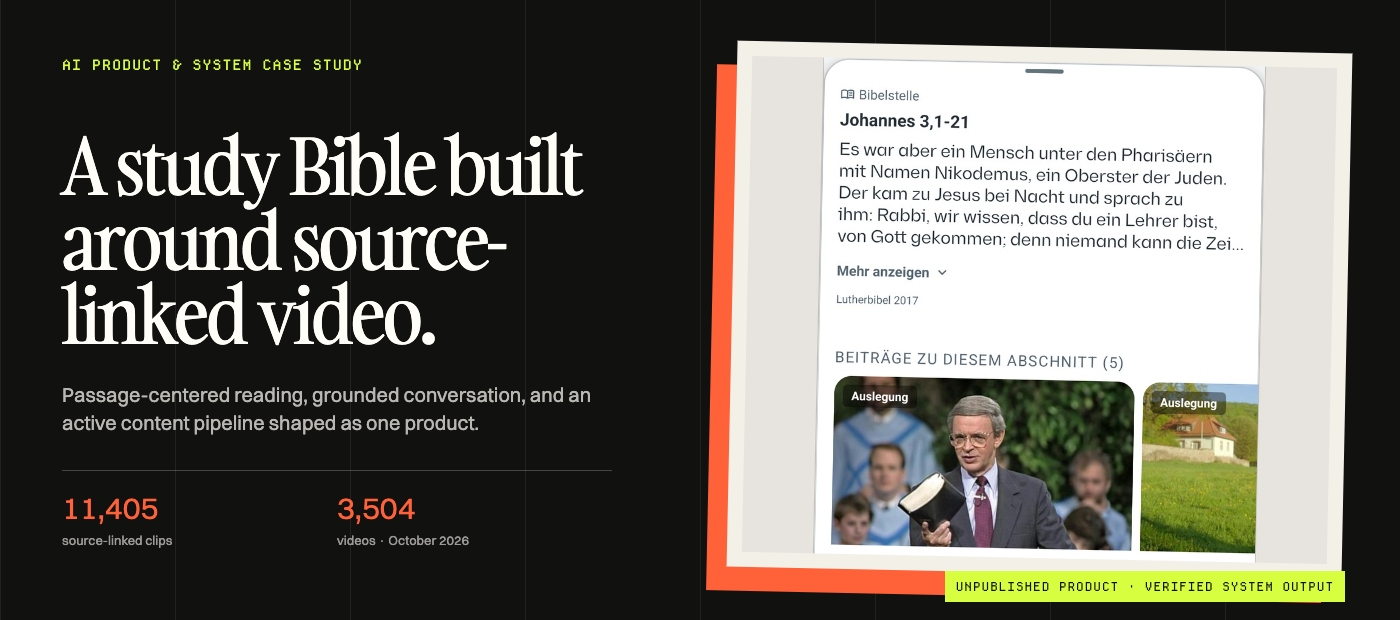
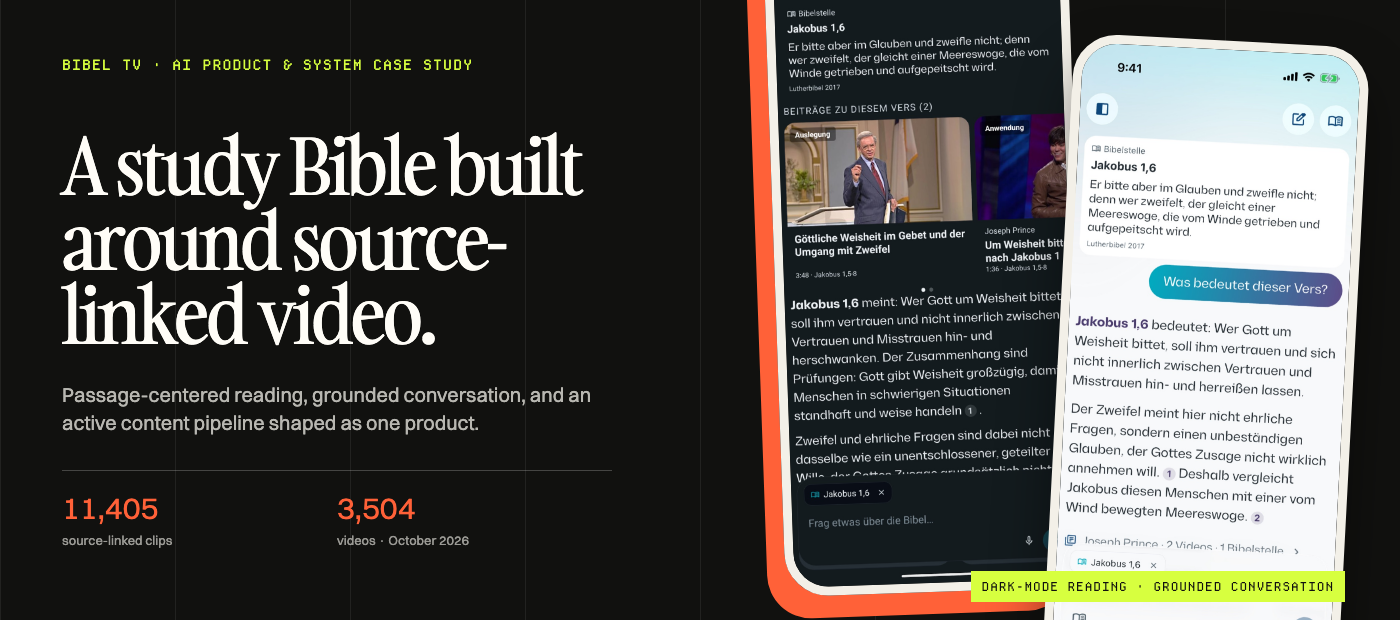
feat: turn profile into a visual product portfolio

diff --git a/assets/readme/visuals.html b/assets/readme/visuals.html
@@ -33,7 +33,10 @@
       .frame { display: none; overflow: hidden; }
       html[data-frame="profile"] #profile,
       html[data-frame="work"] #work,
-      html[data-frame="vsb"] #vsb { display: block; }
+      html[data-frame="vsb"] #vsb,
+      html[data-frame="systems"] #systems,
+      html[data-frame="selah"] #selah,
+      html[data-frame="aperto"] #aperto { display: block; }
       .mono {
         font-family: "Departure Mono", monospace;
         text-transform: uppercase;
@@ -287,23 +290,38 @@
       #vsb .proof div { padding-top: 17px; }
       #vsb .proof strong { display: block; color: var(--signal); font-size: 31px; }
       #vsb .proof span { color: rgba(255,253,247,.58); font-size: 13px; }
-      #vsb .device {
+      #vsb .device-main {
         position: absolute;
         z-index: 2;
-        top: 47px;
-        right: 53px;
-        width: 615px;
-        height: 526px;
-        padding: 15px;
-        background: var(--paper);
-        box-shadow: -20px 24px 0 var(--signal);
-        transform: rotate(1.2deg);
+        top: -84px;
+        right: 322px;
+        width: 304px;
+        height: 676px;
+        overflow: hidden;
+        border: 9px solid var(--paper);
+        border-radius: 44px;
+        box-shadow: -18px 22px 0 var(--signal);
+        transform: rotate(-2deg);
       }
-      #vsb .device img {
+      #vsb .device-main img,
+      #vsb .device-side img {
         width: 100%;
         height: 100%;
         object-fit: cover;
-        object-position: center;
+        object-position: top center;
+      }
+      #vsb .device-side {
+        position: absolute;
+        z-index: 2;
+        top: 40px;
+        right: 46px;
+        width: 296px;
+        height: 642px;
+        overflow: hidden;
+        border: 9px solid var(--paper);
+        border-radius: 44px;
+        box-shadow: 0 28px 54px rgba(0,0,0,.42);
+        transform: rotate(3deg);
       }
       #vsb .status {
         position: absolute;
@@ -315,6 +333,136 @@
         background: var(--acid);
         font-size: 12px;
       }
+
+      .product-frame {
+        width: 1400px;
+        height: 760px;
+        position: relative;
+        overflow: hidden;
+        color: var(--ink);
+        background: var(--paper);
+      }
+      .product-frame .frame-label {
+        position: absolute;
+        z-index: 5;
+        top: 28px;
+        left: 36px;
+        padding: 10px 12px;
+        color: var(--white);
+        background: var(--ink);
+        font-size: 12px;
+      }
+      .product-frame .frame-title {
+        position: absolute;
+        z-index: 5;
+        left: 42px;
+        bottom: 35px;
+        margin: 0;
+        max-width: 790px;
+        font-family: Gambarino, Georgia, serif;
+        font-size: 64px;
+        font-weight: 400;
+        line-height: .95;
+        letter-spacing: -.04em;
+      }
+
+      #systems {
+        padding: 26px;
+        background: var(--ink);
+      }
+      #systems .systems-grid {
+        height: 708px;
+        display: grid;
+        grid-template-columns: 1.1fr .9fr;
+        grid-template-rows: repeat(3, 1fr);
+        gap: 14px;
+      }
+      #systems figure {
+        position: relative;
+        margin: 0;
+        overflow: hidden;
+        background: var(--white);
+      }
+      #systems figure:first-child { grid-row: 1 / 4; }
+      #systems img { width: 100%; height: 100%; object-fit: cover; }
+      #systems figure:first-child img { object-position: center 37%; }
+      #systems figure:nth-child(2) img { object-position: center; }
+      #systems figure:nth-child(3) img { object-position: center top; }
+      #systems figure:nth-child(4) img { object-position: left center; }
+      #systems figcaption {
+        position: absolute;
+        left: 16px;
+        bottom: 15px;
+        padding: 8px 10px;
+        color: var(--ink);
+        background: var(--acid);
+        font-size: 12px;
+      }
+      #systems .frame-label { color: var(--ink); background: var(--signal); }
+
+      #selah { background: #ede8df; }
+      #selah .shot {
+        position: absolute;
+        top: 38px;
+        right: 38px;
+        width: 870px;
+        height: 610px;
+        padding: 13px;
+        background: var(--white);
+        box-shadow: -20px 22px 0 var(--signal);
+        transform: rotate(.75deg);
+      }
+      #selah .shot img { width: 100%; height: 100%; object-fit: cover; }
+      #selah .frame-title { max-width: 470px; }
+      #selah .note {
+        position: absolute;
+        left: 44px;
+        top: 260px;
+        width: 355px;
+        color: var(--muted);
+        font-size: 18px;
+        line-height: 1.4;
+      }
+
+      #aperto { color: var(--white); background: #14294a; }
+      #aperto::before {
+        content: "";
+        position: absolute;
+        inset: 0;
+        background:
+          radial-gradient(circle at 74% 28%, rgba(255,97,56,.34), transparent 30%),
+          linear-gradient(135deg, rgba(255,255,255,.07), transparent 50%);
+      }
+      #aperto .phones {
+        position: absolute;
+        top: -54px;
+        right: 95px;
+        width: 610px;
+        height: 900px;
+        display: flex;
+        gap: 25px;
+        transform: rotate(3deg);
+      }
+      #aperto .phones img {
+        width: 292px;
+        height: 634px;
+        object-fit: cover;
+        border: 8px solid rgba(255,253,247,.92);
+        border-radius: 42px;
+        box-shadow: 0 30px 60px rgba(0,0,0,.38);
+      }
+      #aperto .phones img:nth-child(2) { margin-top: 94px; }
+      #aperto .frame-title { max-width: 580px; color: var(--white); }
+      #aperto .note {
+        position: absolute;
+        left: 44px;
+        top: 245px;
+        width: 480px;
+        color: rgba(255,253,247,.72);
+        font-size: 20px;
+        line-height: 1.42;
+      }
+      #aperto .frame-label { color: var(--ink); background: var(--acid); }
     </style>
     <script>
       document.documentElement.dataset.frame = new URLSearchParams(location.search).get("frame") || "profile";
@@ -376,7 +524,7 @@
     <section class="frame" id="vsb">
       <div class="rule"></div>
       <div class="copy">
-        <div class="eyebrow mono">AI product & system case study</div>
+        <div class="eyebrow mono">Bibel TV · AI product & system case study</div>
         <h1>A study Bible built around source-linked video.</h1>
         <p class="sub">Passage-centered reading, grounded conversation, and an active content pipeline shaped as one product.</p>
         <div class="proof">
@@ -384,8 +532,48 @@
           <div><strong>3,504</strong><span>videos · October 2026</span></div>
         </div>
       </div>
-      <div class="device"><img src="source/vsb-sermon-clips.jpg" alt="" /></div>
-      <div class="status mono">Unpublished product · verified system output</div>
+      <div class="device-main"><img src="source/vsb-android-reader.jpg" alt="" /></div>
+      <div class="device-side"><img src="source/vsb-ios-chat.jpg" alt="" /></div>
+      <div class="status mono">Dark-mode reading · grounded conversation</div>
+    </section>
+
+    <section class="frame product-frame" id="systems">
+      <span class="frame-label mono">Bibel TV · product infrastructure</span>
+      <div class="systems-grid">
+        <figure>
+          <img src="source/bibeltv-color-system.png" alt="" />
+          <figcaption class="mono">Color API · context-aware themes</figcaption>
+        </figure>
+        <figure>
+          <img src="source/bibeltv-token-api.png" alt="" />
+          <figcaption class="mono">Token API · five product surfaces</figcaption>
+        </figure>
+        <figure>
+          <img src="source/bibeltv-storybook.png" alt="" />
+          <figcaption class="mono">Storybook · LLM-safe components</figcaption>
+        </figure>
+        <figure>
+          <img src="source/bibeltv-ci-check.png" alt="" />
+          <figcaption class="mono">CI · checks that refuse drift</figcaption>
+        </figure>
+      </div>
+    </section>
+
+    <section class="frame product-frame" id="selah">
+      <span class="frame-label mono">Shipped product · macOS</span>
+      <p class="note">A quiet menu-bar companion for moving from one meeting to the next with more intention.</p>
+      <h2 class="frame-title">Selah turns calendar transitions into mindful pauses.</h2>
+      <div class="shot"><img src="source/selah.png" alt="" /></div>
+    </section>
+
+    <section class="frame product-frame" id="aperto">
+      <span class="frame-label mono">In development · iOS & Android</span>
+      <p class="note">An audio-first spiritual formation companion built around calm daily practices, honest boundaries, and human support.</p>
+      <h2 class="frame-title">Aperto makes room for a meaningful daily rhythm.</h2>
+      <div class="phones">
+        <img src="source/aperto-night.jpg" alt="" />
+        <img src="source/aperto-scenes.jpg" alt="" />
+      </div>
     </section>
   </body>
 </html>

diff --git a/README.md b/README.md
@@ -28,23 +28,65 @@ experiments to valuable, usable systems without removing human judgment.
 
 ## Selected work
 
-![Three selected products: the AI Bible Study App, Urban Eclipse, and Waldläufer](assets/readme/selected-work.png)
+### [AI Bible Study App for Bibel TV](https://github.com/oratioandco/ai-bible-study-case-study)
 
-### [AI Bible Study App — Product & System Case Study](https://github.com/oratioandco/ai-bible-study-case-study)
+![AI Bible Study App for Bibel TV](assets/readme/vsb-hero.png)
 
 The product and system story behind an unpublished, source-grounded AI study
-Bible I designed, managed, and built. The public repository documents the mobile
-and web experience, grounded chat, virtual clips, retrieval architecture, and
-agentic content workflows without exposing customer code or production secrets.
-An October 2026 pipeline snapshot contained 11,405 source-linked clips from 3,504
-videos; this is system output, not an adoption claim.
+Bible I designed, managed, and built for Bibel TV. It combines a calm native
+reading experience, grounded conversation, virtual clips, retrieval architecture,
+and agentic content workflows. An October 2026 pipeline snapshot contained 11,405
+source-linked clips from 3,504 videos; this is system output, not an adoption
+claim. The app runs in test builds and has not launched.
+
+### Bibel TV product infrastructure
+
+![Bibel TV Color API, Token API, Storybook component system, and CI checks](assets/readme/systems.png)
+
+I built the infrastructure that lets product teams move quickly without losing
+coherence: a live Color API for context-aware artwork themes; a four-tier token
+system distributed through an API to Android, iOS, web, connected TV, and Figma;
+an LLM-safe Storybook component reference; and six local and CI checks that refuse
+unresolved token references and hardcoded color values.
+
+### [Selah — mindful calendar transitions](https://selah.guide)
+
+![Selah, a shipped macOS menu-bar app](assets/readme/selah.png)
+
+A shipped macOS menu-bar app that turns the gaps between meetings into intentional
+pauses. I designed and agentically engineered the product end to end, including its
+privacy-conscious on-device experience. [View it on the Mac App Store](https://apps.apple.com/us/app/selah-mindful-transitions/id6748382447?mt=12).
+
+### Aperto — spiritual formation companion
+
+![Aperto native mobile app](assets/readme/aperto.png)
+
+An audio-first native companion for people seeking a meaningful daily spiritual
+rhythm. The product combines calm practices, conversational support, Scripture,
+multilingual content, and deliberately human-centered safety boundaries. Aperto is
+in active development for iOS and Android and has not launched.
 
 ### [Urban Eclipse](https://github.com/oratioandco/urbaneclipse)
+
+![Urban Eclipse 3D geospatial photography planner](assets/readme/source/urban-eclipse.jpg)
 
 A 3D geospatial planning tool for extreme-telephoto photography. It combines real
 Berlin LoD2 buildings, astronomical calculations, camera geometry, line-of-sight
 analysis, and a tested CityGML-to-3D-Tiles pipeline in a distinctive plaster-model
 interface. [Open the live experience](https://plastervoid-n.2.28.29.90.sslip.io).
+
+### [Waldläufer](https://github.com/oratioandco/waldlaeufer)
+
+<p>
+  <img src="assets/readme/source/waldlaeufer-start.jpg" alt="Waldläufer start screen" width="49%" />
+  <img src="assets/readme/source/waldlaeufer-story.jpg" alt="Waldläufer story screen" width="49%" />
+</p>
+
+An adaptive learning game for children with dyslexia that turns reading practice into
+a navigable 3D forest experience. The product combines learning design, game mechanics,
+and an end-to-end browser implementation.
+
+## Additional open work
 
 ### [Dynamic Identity Configurator](https://github.com/oratioandco/dynamic_identity_configurator)
 
@@ -52,17 +94,15 @@ A generative identity system that turns one architectural form into an extensibl
 family of distinctive posters—connecting brand rules, creative tooling, and a usable
 interactive configurator. [Try the configurator](https://oratioandco.github.io/dynamic_identity_configurator/).
 
-### [Waldläufer](https://github.com/oratioandco/waldlaeufer)
-
-An adaptive learning game for children with dyslexia that turns reading practice into
-a navigable 3D forest experience. The product combines learning design, game mechanics,
-and an end-to-end browser implementation.
-
 ### [Aperto Bible](https://github.com/oratioandco/aperto-bible)
 
 An open, multilingual publishing system exploring how AI-assisted translation can
 remain inspectable and human-governed across languages, structured content, and
 reusable distribution formats.
+
+Faith App Foundation is the shared application foundation I am currently developing
+across the Bible-study and spiritual-formation product tracks. It is not presented as
+a finished product yet.
 
 ## How I work
 
